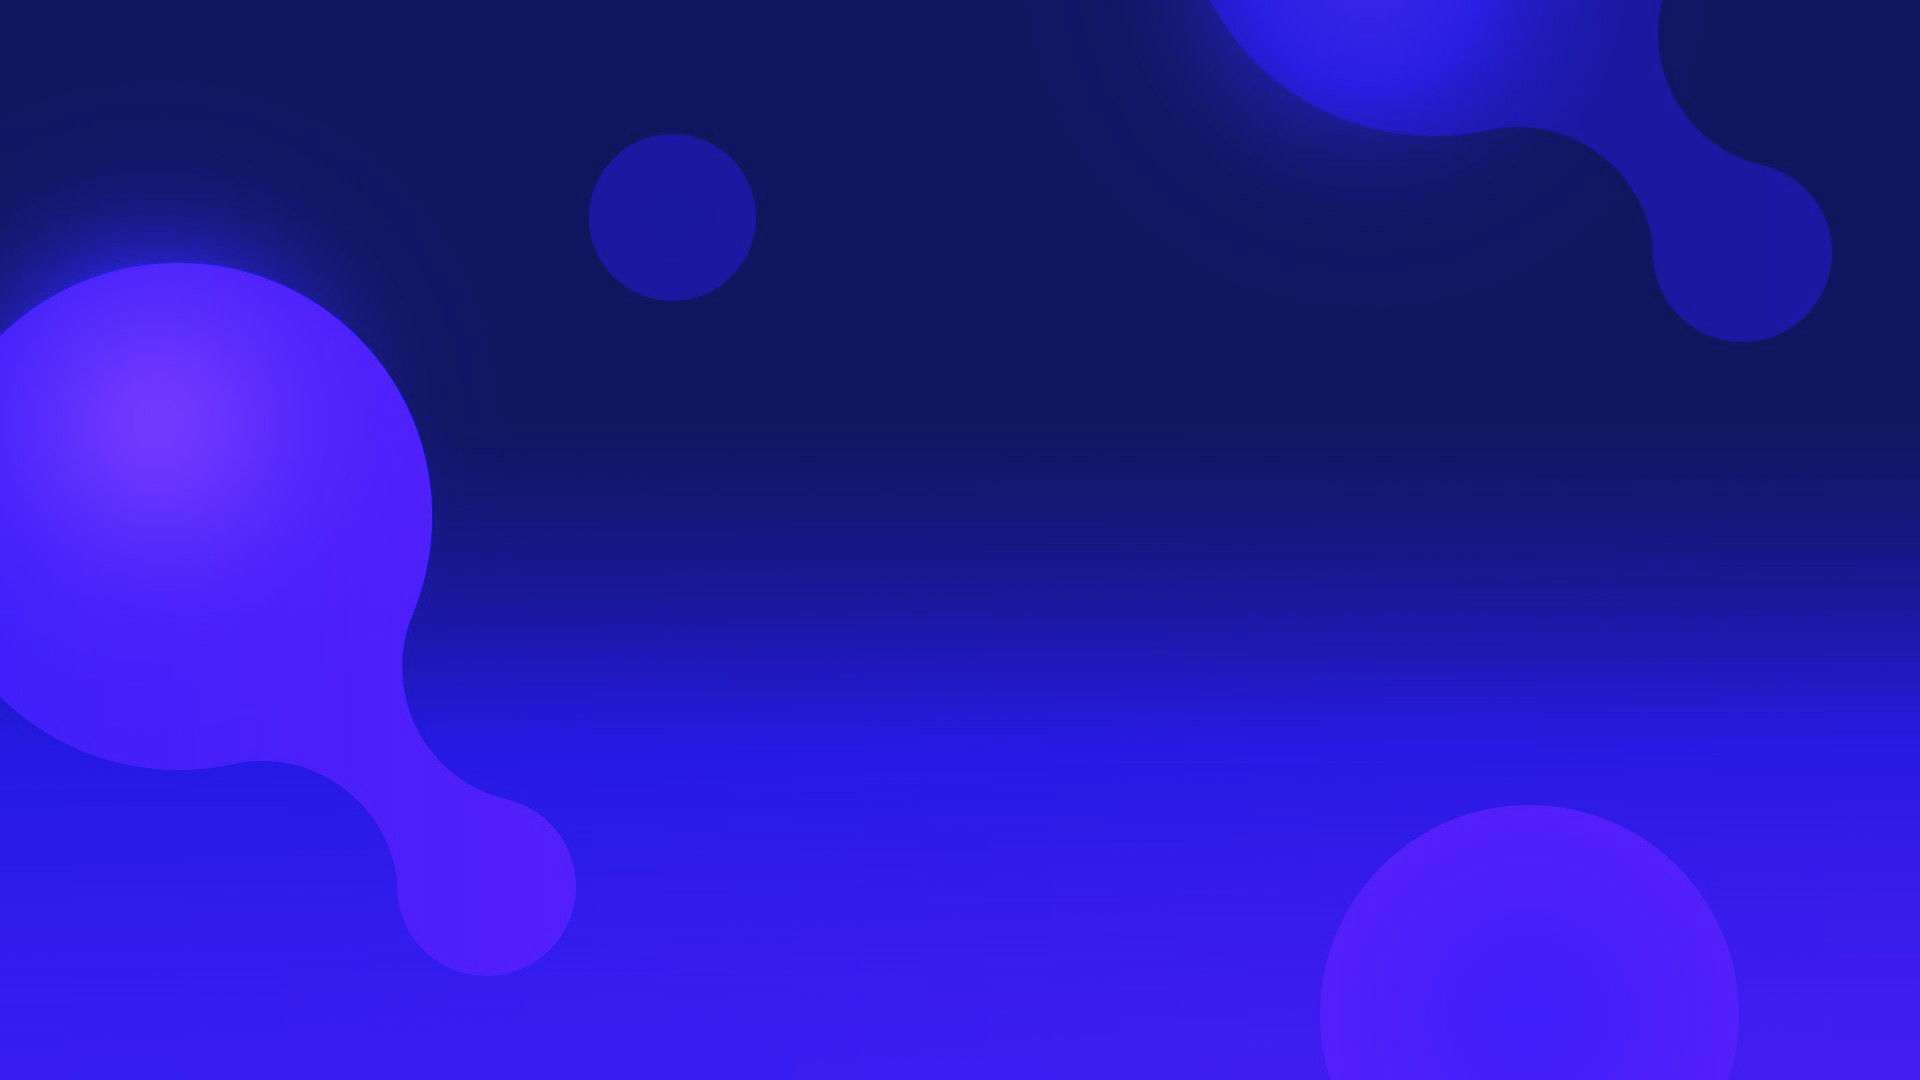
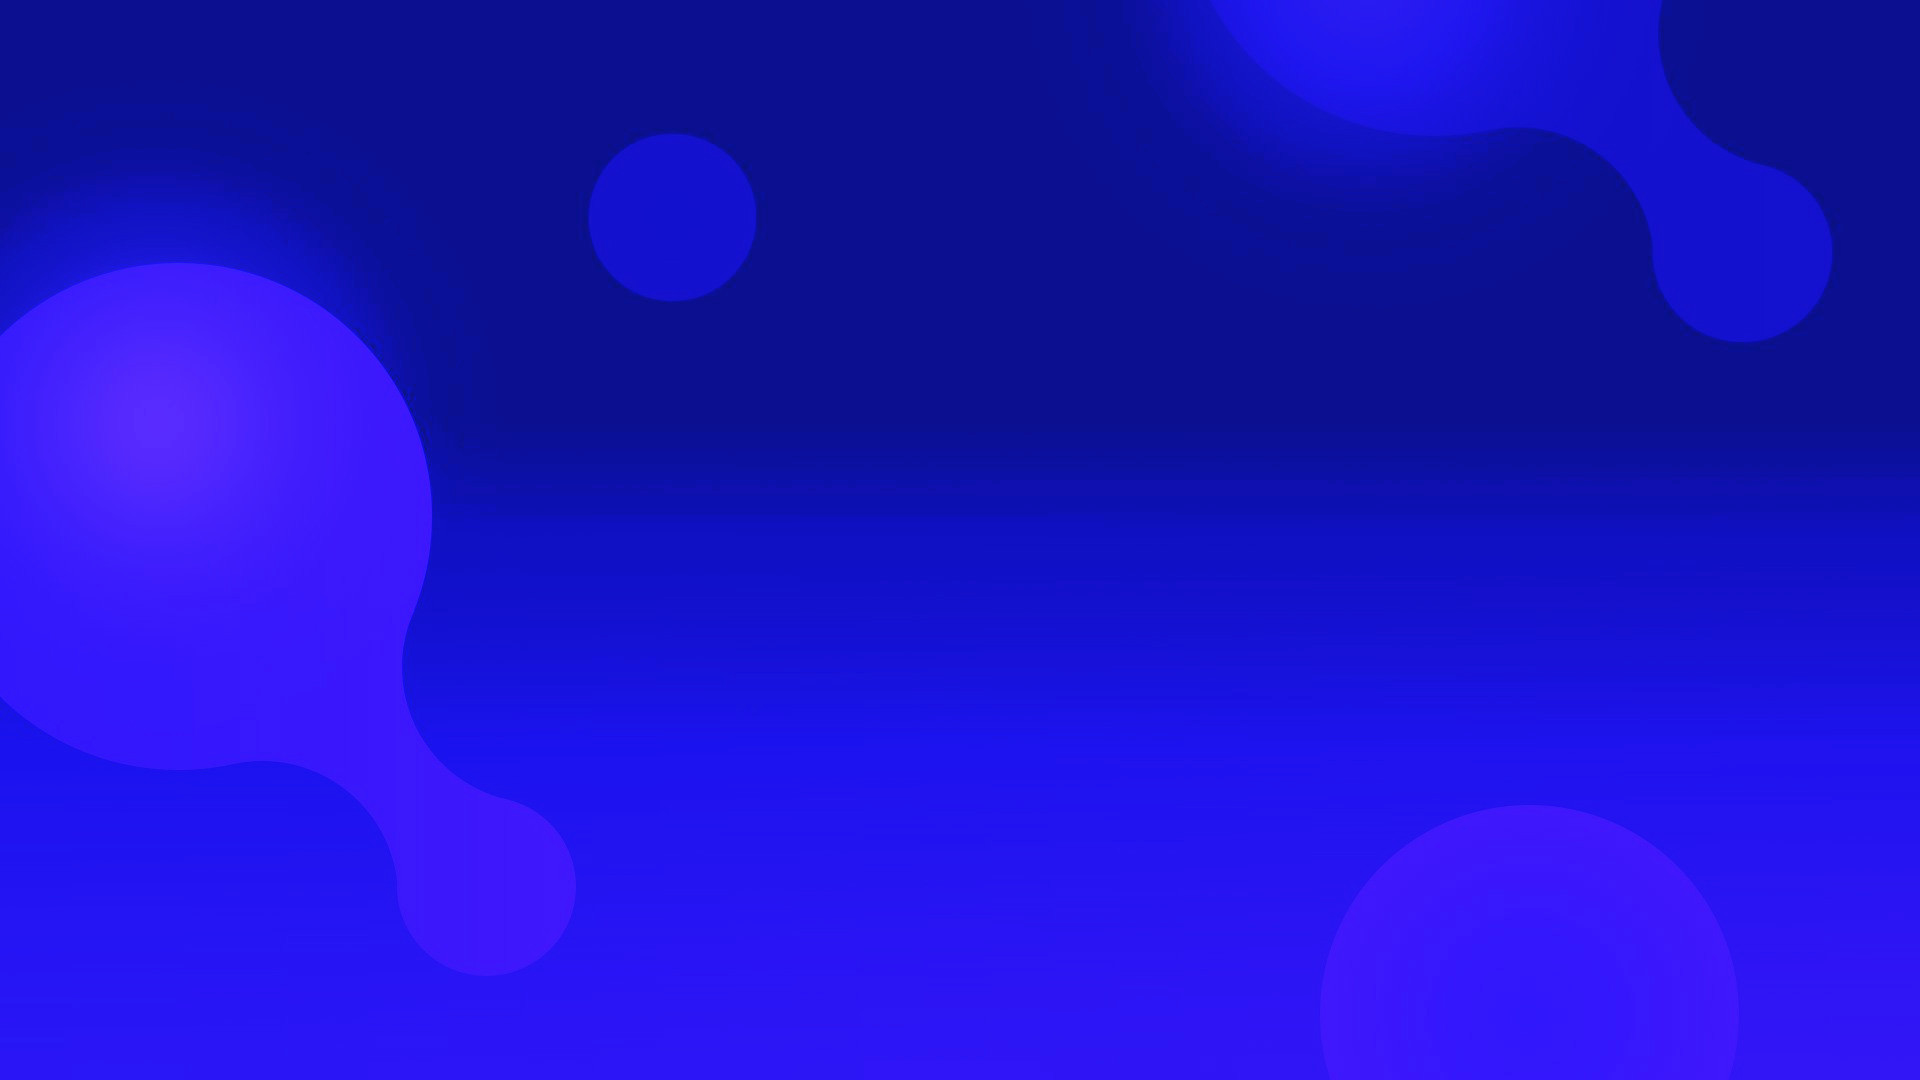
Changed artwork, working on home page bg image (unfinished)

diff --git a/src/style.css b/src/style.css
@@ -8,10 +8,10 @@ html {
   --image-gradient: linear-gradient(
     to bottom left,
     rgba(17, 16, 16, 0.678),
-    rgba(12, 10, 22, 0.863)
+    rgba(12, 10, 50, 0.863)
   );
 
-  --imp-text-color: #7270f0;
+  --imp-text-color: #5f88f8;
 }
 
 .blue {
@@ -257,7 +257,7 @@ button:focus {
 .home-section {
   position: relative;
   z-index: -1;
-  background-image: var(--image-gradient), url(./Assets/home-bg.jpg);
+  background-image: url('Assets/home-bg1.jpg');
   background-position: top center;
   background-repeat: no-repeat;
   padding-bottom: 30px !important;
@@ -286,12 +286,12 @@ button:focus {
 
 .Typewriter__wrapper {
   font-size: 2.2em !important;
-  color: #766adf !important;
+  color: #5f88f8 !important;
   font-weight: 600 !important;
 }
 .Typewriter__cursor {
   font-size: 2.4em !important;
-  color: #6a62d6 !important;
+  color: #5f88f8 !important;
 }
 
 @media (max-width: 767px) {
@@ -321,6 +321,7 @@ button:focus {
   position: relative;
   padding-bottom: 70px !important;
   padding-top: 70px !important;
+  
 }
 
 .home-about-description {

diff --git a/src/components/Home/Home2.js b/src/components/Home/Home2.js
@@ -1,6 +1,6 @@
 import React from "react";
 import { Container, Row, Col } from "react-bootstrap";
-import myImg from "../../Assets/avatar.svg";
+import myImg from "../../Assets/avatar.png";
 import Tilt from "react-parallax-tilt";
 import {
   AiFillGithub,
@@ -35,7 +35,7 @@ function Home2() {
           </Col>
           <Col md={4} className="myAvtar">
             <Tilt>
-              <img src={myImg} className="img-fluid" alt="avatar" />
+              <img src={myImg} className="img-fluid" width="70%" alt="avatar" />
             </Tilt>
           </Col>
         </Row>

diff --git a/public/index.html b/public/index.html
@@ -8,7 +8,7 @@
   <meta name="theme-color" content="#000000" />
   <meta name="description" content="Web site created using create-react-app" />
   <link rel="manifest" href="%PUBLIC_URL%/manifest.json" />
-  <title>S0umyajit | Portfolio</title>
+  <title>Rabie Toaba | Portfolio</title>
   <meta name="description" content="Self Developed personal website build with React.js">
 
   <!-- Google / Search Engine Tags -->

diff --git a/src/components/Home/Home.js b/src/components/Home/Home.js
@@ -1,6 +1,6 @@
 import React from "react";
 import { Container, Row, Col } from "react-bootstrap";
-import homeLogo from "../../Assets/home-main.svg";
+import homeLogo from "../../Assets/home-main.png";
 import Particle from "../Particle";
 import Home2 from "./Home2";
 import Type from "./Type";
